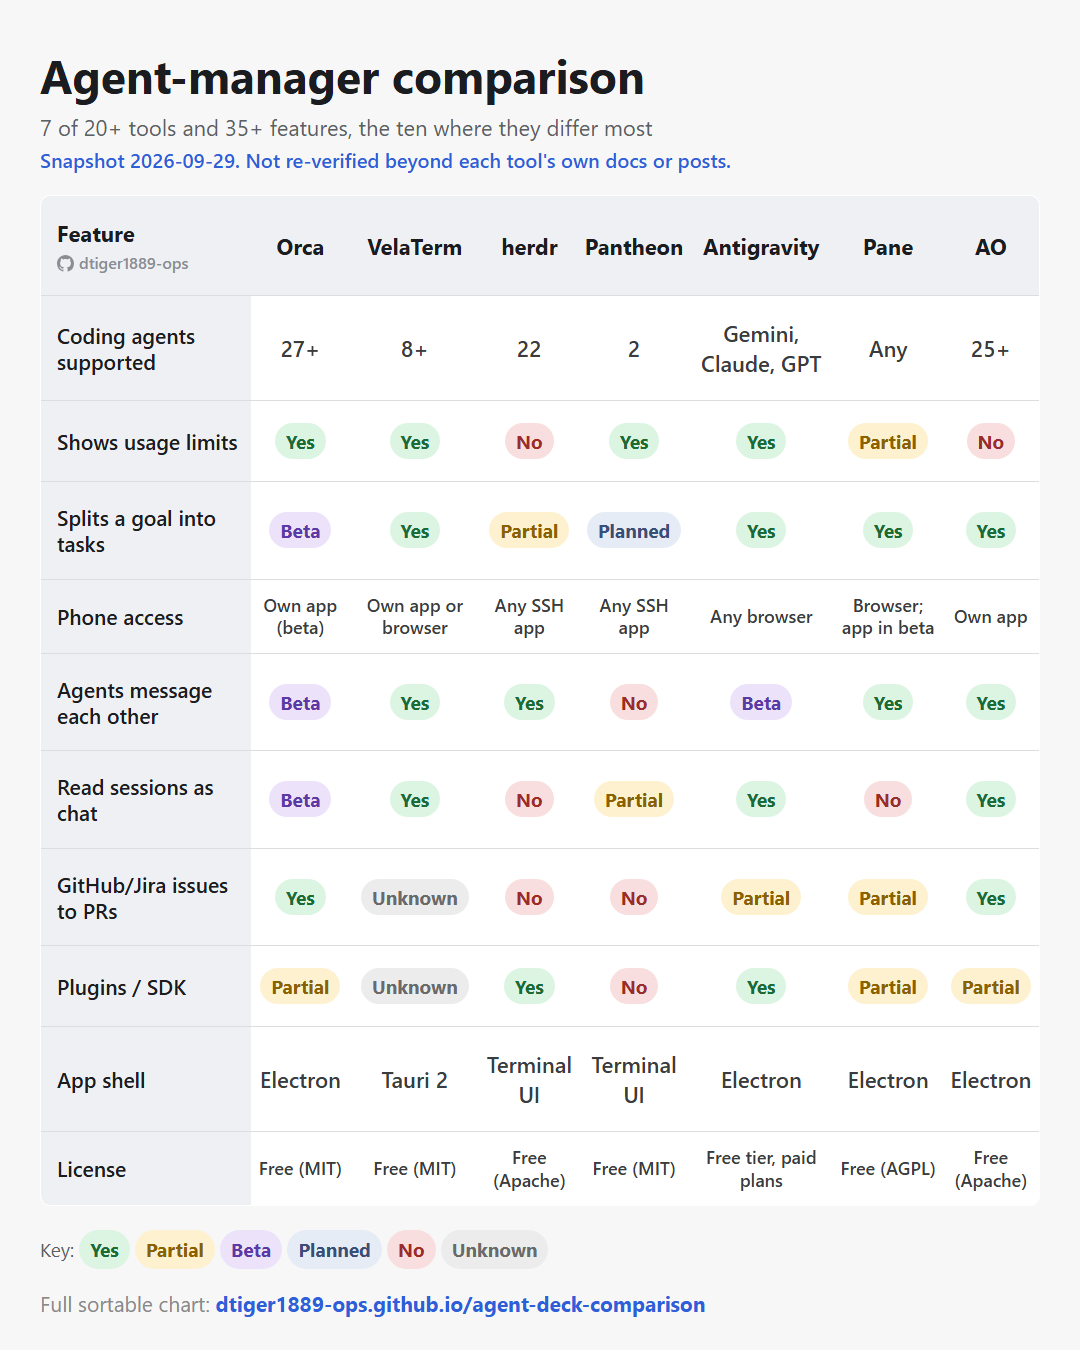
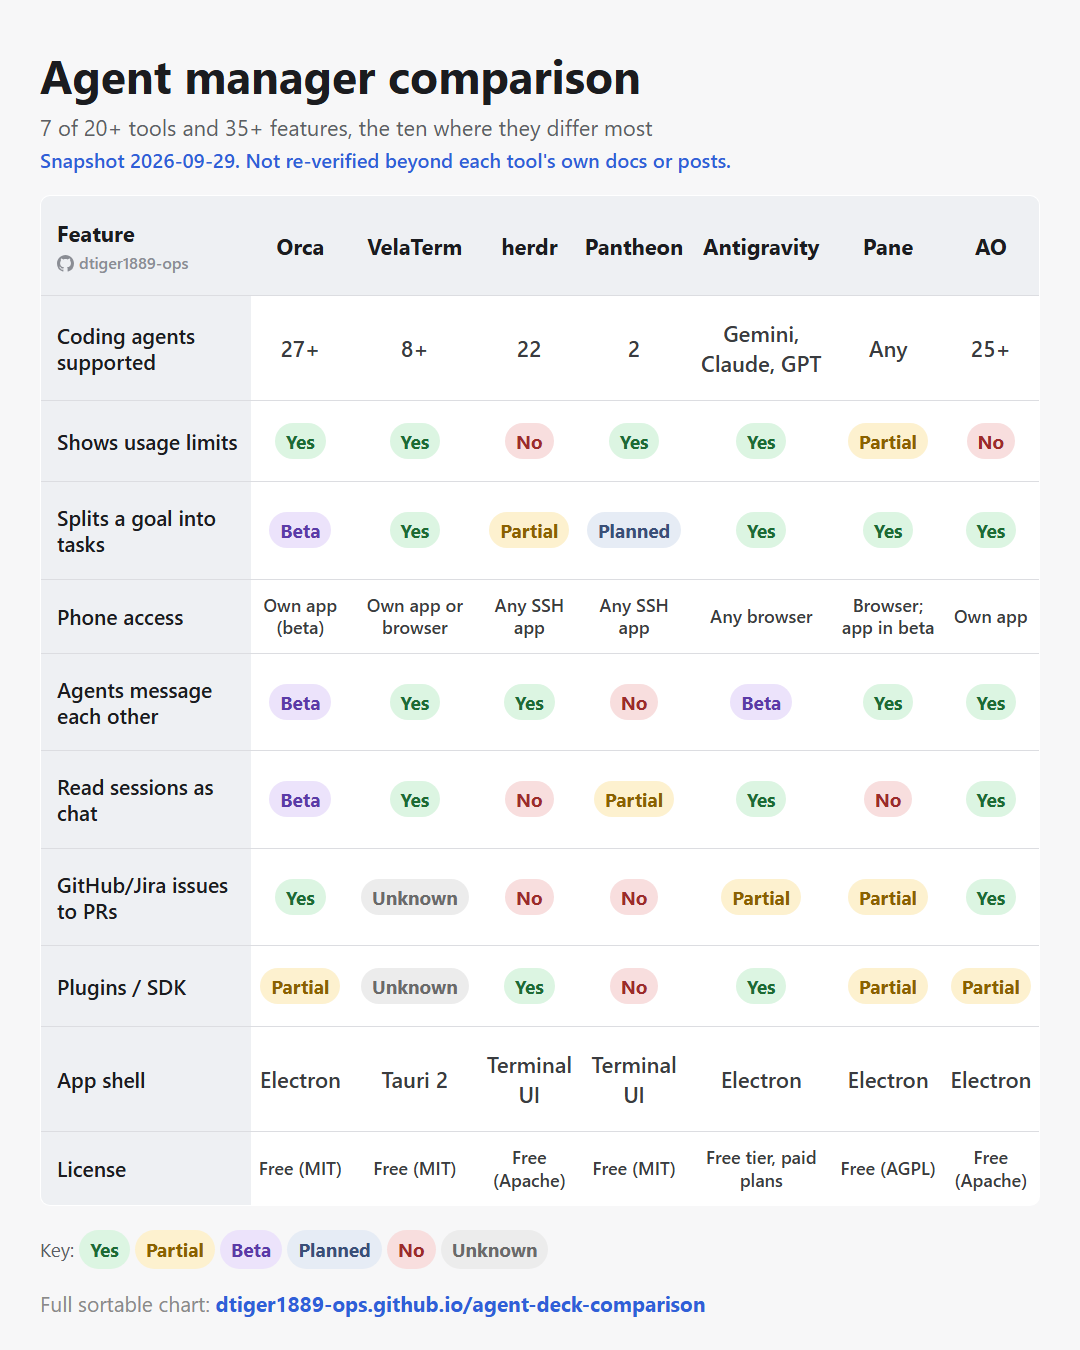
Share image 2: title without the hyphen

Changed region(s): [[0.1528, 0.0311, 0.6111, 0.0933]]

diff --git a/assets/share-2.html b/assets/share-2.html
@@ -25,7 +25,7 @@
   .footer { margin-top: 18px; font-size: 21px; line-height: 1.5; color: #8a8a8a; }
 </style></head>
 <body>
-  <h1>Agent-manager comparison</h1>
+  <h1>Agent manager comparison</h1>
   <p class="sub">7 of 20+ tools and 35+ features, the ten where they differ most</p>
   <p class="snap">Snapshot 2026-09-29. Not re-verified beyond each tool's own docs or posts.</p>
   <table>

diff --git a/tools/build_linkedin.py b/tools/build_linkedin.py
@@ -172,7 +172,7 @@ html = f"""<!DOCTYPE html>
   .footer {{ margin-top: 18px; font-size: 21px; line-height: 1.5; color: #8a8a8a; }}
 </style></head>
 <body>
-  <h1>Agent-manager comparison</h1>
+  <h1>Agent manager comparison</h1>
   <p class="sub">{SUBTITLE}</p>
   <p class="snap">Snapshot {DATA["snapshot_date"]}. Not re-verified beyond each tool's own docs or posts.</p>
   <table>
